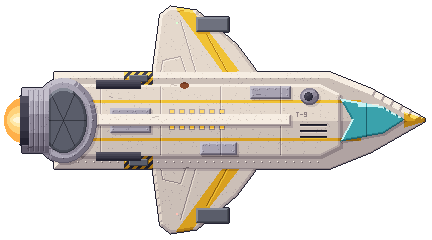
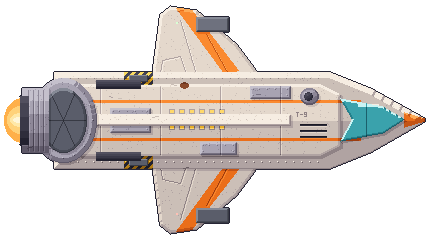
Covered fighter: orange trim instead of yellow (blue is one argument away)
Claude-Session: https://claude.ai/code/session_013NFuzHRwfTbYkDqEBL2Kc9

diff --git a/tools/dev/ship_art/story2x.py b/tools/dev/ship_art/story2x.py
@@ -285,9 +285,9 @@ def loyalist_gunship():
 
 # ---------------------------------------------------------------- the covered fighter, 9 x 5
 
-def covered_fighter():
+def covered_fighter(trim="orange"):
     """What's under Freya's tarp: an old long-range Terran fighter with a crew deck. One big engine, swept wings
-    set back, a pointed nose; faded white with yellow trim and grey patches."""
+    set back, a pointed nose; faded white with orange trim (Zachary: orange or blue, not yellow) and grey patches."""
     p = Pix(432, 240)
     H = p.h
     rng = random.Random(61)
@@ -297,7 +297,7 @@ def covered_fighter():
         p.bevel(p.mask(polygon=pts), "hull", width=3, face=face, edge_light=5 if face == 4 else 4, shade_lower=False)
     for top in (True, False):
         band = [(176, 8), (190, 8), (238, 70), (226, 76)]
-        p.paint(p.mask(polygon=band if top else mirror(band, H)), "yellow")
+        p.paint(p.mask(polygon=band if top else mirror(band, H)), trim)
         for (a, b) in (((200, 88), (180, 20)), ((236, 88), (206, 34))):
             p.engrave([a, b] if top else mirror([a, b], H))
         flap = [(158, 86), (190, 86), (180, 56), (162, 60)]
@@ -313,7 +313,7 @@ def covered_fighter():
     p.bevel(p.mask(polygon=[(80, 84), (320, 84), (340, 94), (340, 146), (320, 156), (80, 156)]), "hull", width=3, face=4)
     # yellow trim lines, faded grey patches, panel lines
     for y in (100, 138):
-        p.paint(p.mask(rect=(60, y, 360, y + 2)) & bm, "yellow")
+        p.paint(p.mask(rect=(60, y, 360, y + 2)) & bm, trim)
     for (x0, y0, x1, y1) in ((110, 108, 150, 132), (250, 86, 290, 98), (200, 142, 236, 154)):
         plate(p, (x0, y0, x1, y1), "metal", bm, face=4, width=2)
     for x in (100, 160, 220, 280):
@@ -328,7 +328,7 @@ def covered_fighter():
     p.bevel(p.mask(polygon=[(340, 98), (382, 106), (404, 119), (382, 133), (340, 141), (352, 119)]), "glass", width=2, face=3, shade_lower=False)
     p.set_tone(p.mask(rect=(358, 104, 378, 106)), 5)
     p.engrave([(366, 103), (366, 136)], highlight=False)
-    p.paint(p.mask(polygon=[(404, 112), (424, 118), (424, 121), (404, 127)]), "yellow")
+    p.paint(p.mask(polygon=[(404, 112), (424, 118), (424, 121), (404, 127)]), trim)
     # a dorsal spine with an antenna and a sensor dish, airlocks on both sides
     p.bevel(p.mask(rect=(96, 114, 290, 125)), "hull", width=2, face=5, shade_lower=False)
     rivet_row(p, 102, 286, 119, 8)
